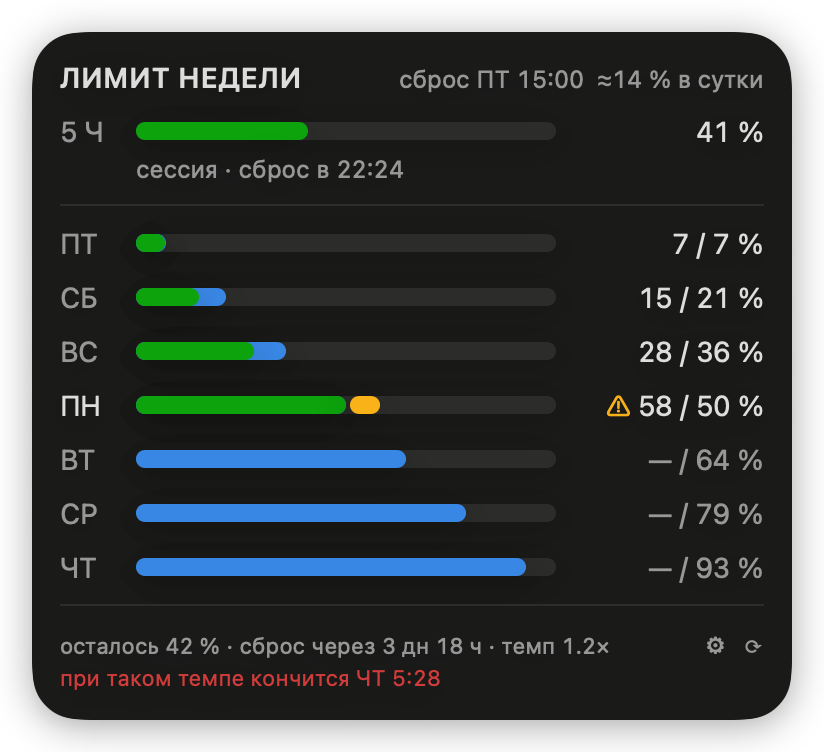
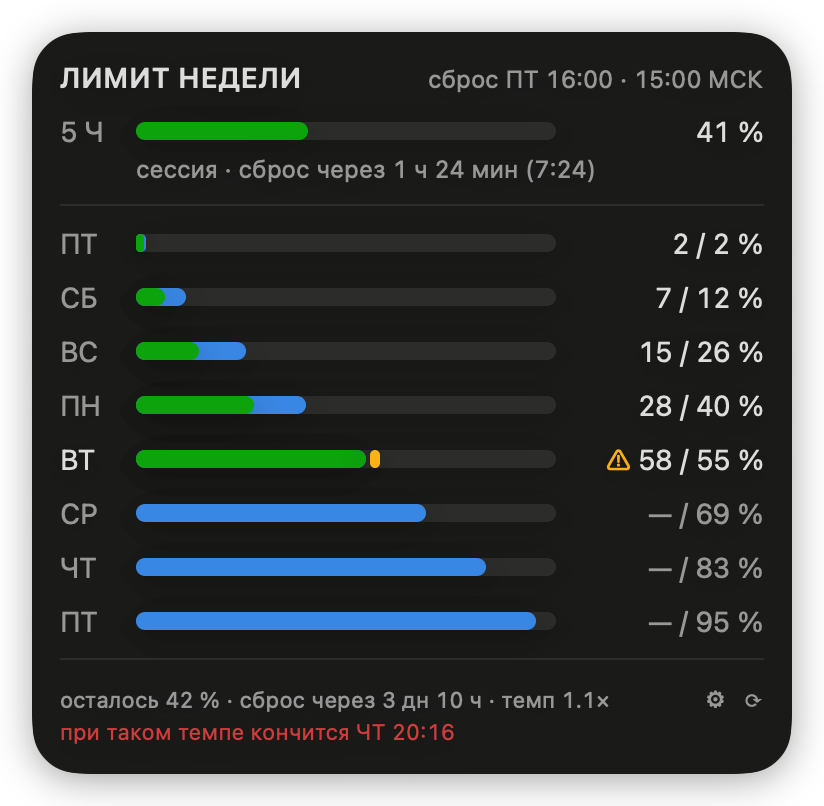
Описал календарные сутки и норму расхода в README

diff --git a/docs/ARCHITECTURE.md b/docs/ARCHITECTURE.md
@@ -46,7 +46,7 @@ SwiftUI` — значит, расчёт просочился в UI или нао
 | Файл | Отвечает за | Ключевые типы |
 |---|---|---|
 | `Config.swift` | все настройки, чтение и запись `config.json`, починка недопустимых значений | `Config`, `AppearanceConfig`, `ThemeKind`, `Thresholds`, `ConfigStore` |
-| `WeekWindow.swift` | границы недельного окна, план на момент и на сутки | `WeekWindow`, `WeekDaySlot` |
+| `WeekWindow.swift` | границы недельного окна, нарезка на календарные сутки, план на момент и на строку | `WeekWindow`, `WeekDaySlot` |
 | `Snapshot.swift` | что показываем: итог, дни, сессия, производные метрики | `UsageSnapshot`, `DayUsage`, `SessionUsage`, `UsageMetrics`, `LimitState` |
 | `UsageProvider.swift` | протокол источника и типы ошибок | `UsageProvider`, `UsageError` |
 | `OfficialProvider.swift` | запрос к `/api/oauth/usage`, разбор ответа, паузы после отказов | `OfficialProvider`, `OfficialUsage`, `UsageTransport` |
@@ -65,6 +65,8 @@ SwiftUI` — значит, расчёт просочился в UI или нао
   `seven_day.utilization`; форма недели — `shapeByDay`.
 - **«Почему полосы такие»** → `WeekWindow.planPercent(forDay:anchor:)`
   и `UsageSnapshot.make(...)`.
+- **«Почему строк восемь и почему крайние короче»** → `WeekWindow.bounds(...)`:
+  сутки календарные, а окно начинается в час сброса.
 - **«Когда сброс»** → `WeekWindow.init(endingAt:config:)` для официального
   ответа, `init(containing:config:)` — запасной путь из конфига.
 - **«Почему цифра приблизительная»** → `UsageSnapshot.isEstimate` (итог) и
@@ -95,9 +97,17 @@ SwiftUI` — значит, расчёт просочился в UI или нао
    потерялась бы до следующего запроса.
 8. **Прибавление недели — календарное** (`byAdding: .day, value: 7`), не
    `+604800`: в неделю с переводом часов сутки бывают 23 или 25 часов.
-9. **Кривой конфиг чинится, а не отвергается** (`Config.validated()`):
+9. **Строки панели — календарные сутки местной зоны** (`WeekWindow.dayBounds`),
+   а не интервалы «от сброса до сброса». Их семь только когда сброс попадает
+   в полночь, иначе восемь: крайние обрезаны границами окна. Всё, что делит
+   расход по строкам, спрашивает длину у `window.slotCount`, а не у
+   `WeekWindow.daysInWeek` — та осталась длиной окна в сутках.
+10. **План строки считается временем, а не номером строки**
+   (`planPercent(forDay:anchor:)` зовёт `planPercent(at:)`). Иначе обрезанные
+   сутки получили бы долю полных, а ряд не сошёлся бы к 100 % в момент сброса.
+11. **Кривой конфиг чинится, а не отвергается** (`Config.validated()`):
    потерять строку меню из-за опечатки в JSON нельзя.
-10. **Токен не логируется, не пишется в конфиг и не выводится в UI.**
+12. **Токен не логируется, не пишется в конфиг и не выводится в UI.**
 
 ---
 
